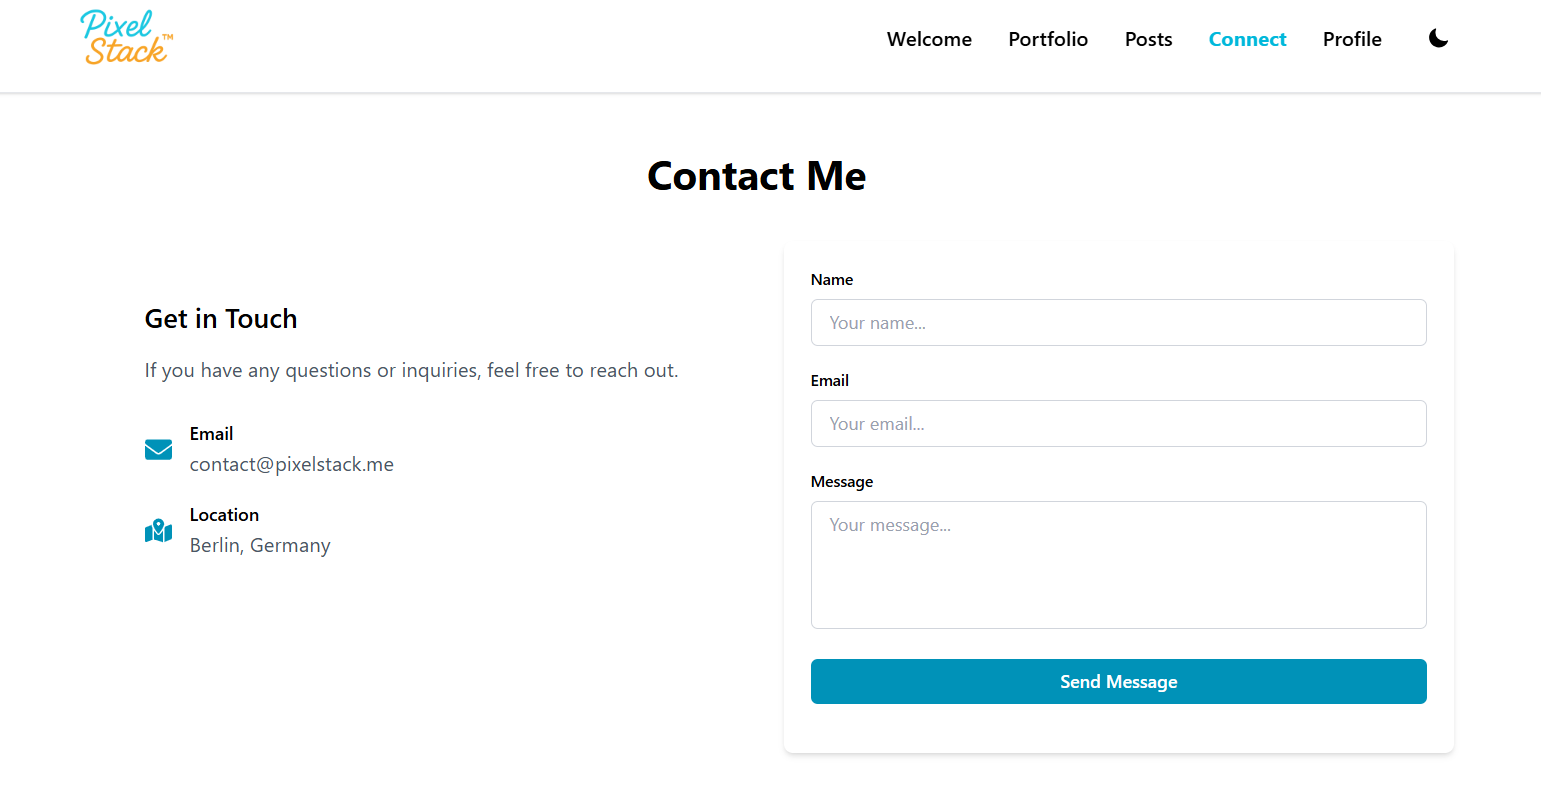
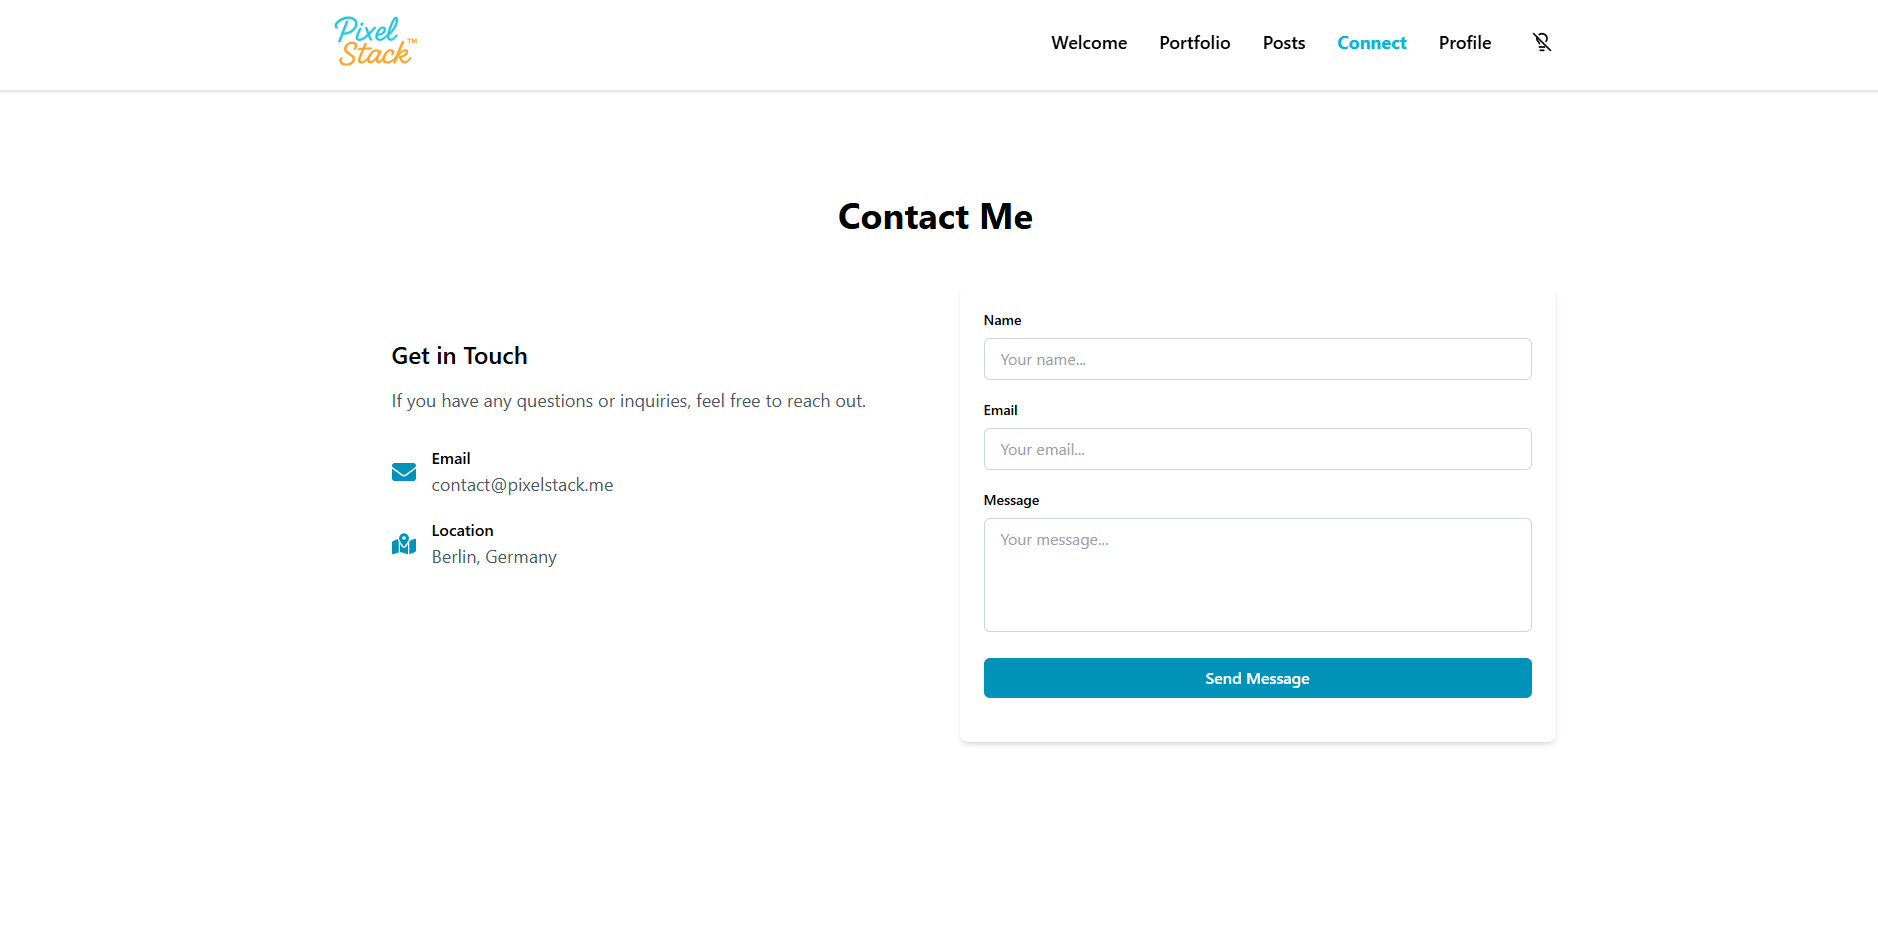
feat(intro): add animated background grid on hover; update README.md

diff --git a/src/app/components/Home/Intro.tsx b/src/app/components/Home/Intro.tsx
@@ -3,39 +3,99 @@
 import Image from 'next/image'
 import Link from 'next/link'
 import { motion } from 'framer-motion'
-import { Sparkle, Zap } from 'lucide-react'
+import { Sparkle, Star, Zap } from 'lucide-react'
+import { useState } from 'react'
 
 const Intro = () => {
-  return (
-    <section className="relative overflow-hidden py-22 lg:py-10 xl:py-30 2xl:py-50">
-      {/* Background gradient + blurred glow effect */}
-      <div className="from-primary/20 before:bg-primary/40 pointer-events-none absolute inset-0 bg-gradient-to-b to-transparent before:absolute before:top-10 before:left-1/2 before:h-[900px] before:w-[900px] before:-translate-x-1/2 before:rounded-full before:opacity-20 before:blur-[120px] before:content-['']" />
+  const [mousePosition, setMousePosition] = useState({ x: 0, y: 0 })
+  const [isHovering, setIsHovering] = useState(false)
 
-      <div className="hidden dark:sm:block">
+  const handleMouseMove = (e: React.MouseEvent<HTMLElement>) => {
+    const rect = e.currentTarget.getBoundingClientRect()
+    setMousePosition({
+      x: e.clientX - rect.left,
+      y: e.clientY - rect.top,
+    })
+  }
+
+  return (
+    <section
+      className="relative min-h-screen overflow-hidden py-40"
+      onMouseEnter={() => setIsHovering(true)}
+      onMouseLeave={() => setIsHovering(false)}
+      onMouseMove={handleMouseMove}
+    >
+      {/* Grid – Background only */}
+      <div
+        className={`pointer-events-none absolute inset-0 z-0 transition-opacity duration-500 ${
+          isHovering ? 'opacity-100' : 'opacity-0'
+        }`}
+      >
+        {/* Main grid */}
+        <div
+          className="absolute inset-0"
+          style={{
+            backgroundImage: `
+              linear-gradient(to right, rgba(6, 182, 212, 0.15) 1px, transparent 1px),
+              linear-gradient(to bottom, rgba(6, 182, 212, 0.15) 1px, transparent 1px)
+            `,
+            backgroundSize: '40px 40px',
+          }}
+        />
+
+        {/* Mouse-following spotlight effect */}
+        <div
+          className="absolute inset-0"
+          style={{
+            background: `radial-gradient(circle at ${mousePosition.x}px ${mousePosition.y}px, rgba(6, 182, 212, 0.25) 0%, transparent 250px)`,
+          }}
+        />
+      </div>
+
+      {/* Additional fine dot grid for depth */}
+      <div
+        className={`pointer-events-none absolute inset-0 z-0 transition-opacity duration-700 ${
+          isHovering ? 'opacity-60' : 'opacity-0'
+        }`}
+        style={{
+          backgroundImage: `radial-gradient(circle at 2px 2px, rgba(6, 182, 212, 0.2) 1.5px, transparent 1.5px)`,
+          backgroundSize: '24px 24px',
+        }}
+      />
+
+      {/* Primary background gradient */}
+      <div className="from-primary/20 before:bg-primary/40 pointer-events-none absolute inset-0 z-0 bg-gradient-to-b to-transparent before:absolute before:top-10 before:left-1/2 before:h-[900px] before:w-[900px] before:-translate-x-1/2 before:rounded-full before:opacity-20 before:blur-[120px] before:content-['']" />
+
+      {/* Animated icons */}
+      <div className="hidden dark:xl:block">
         <motion.div
           initial={{ opacity: 0, y: 20, x: 120 }}
-          animate={{ opacity: 1, y: -100, x: 0 }}
-          transition={{ duration: 1.2 }}
+          animate={{ opacity: 0.5, y: -100, x: 0 }}
+          transition={{ duration: 1 }}
         >
-          <Sparkle className="dark:fill-primary/10 dark:stroke-primary/0 fill-primary/5 stroke-primary/0 absolute top-15 right-20 h-25 w-25 rotate-45 transform animate-pulse drop-shadow-[0_0_6px_rgba(255,255,200,0.6)] lg:right-100" />
-          {/* <Star className="dark:fill-primary/10 dark:stroke-primary/0 absolute top-32 right-52 h-15 w-15 rotate-90 transform animate-pulse fill-cyan-500 stroke-cyan-500 drop-shadow-[0_0_6px_rgba(255,255,200,0.6)]" />{' '}
-        <Star className="dark:fill-primary/10 dark:stroke-primary/0 absolute top-22.5 right-35 h-22 w-22 rotate-45 transform animate-pulse fill-cyan-500 stroke-cyan-500 drop-shadow-[0_0_6px_rgba(255,255,200,0.6)]" /> */}
+          <Sparkle className="dark:fill-primary/8 dark:stroke-primary/0 fill-primary/5 stroke-primary/0 absolute top-15 right-20 h-25 w-25 rotate-45 transform animate-pulse drop-shadow-[0_0_6px_rgba(255,255,200,0.6)] lg:right-100" />
         </motion.div>
-      </div>
 
-      <div className="hidden dark:sm:block">
         <motion.div
           initial={{ opacity: 0, y: -300, x: 120 }}
-          animate={{ opacity: 1, y: -100, x: 0 }}
+          animate={{ opacity: 0.5, y: -100, x: 0 }}
+          transition={{ duration: 1.5 }}
+        >
+          <Zap className="dark:fill-primary/8 dark:stroke-primary/0 fill-primary/5 stroke-primary/0 absolute top-40 left-20 h-36 w-36 -rotate-12 transform animate-pulse drop-shadow-[0_0_6px_rgba(255,200,150,0.6)] lg:left-90" />
+        </motion.div>
+
+        <motion.div
+          initial={{ opacity: 0, y: 20, x: -120 }}
+          animate={{ opacity: 0.5, y: -100, x: 0 }}
           transition={{ duration: 2 }}
         >
-          <Zap className="dark:fill-primary/10 dark:stroke-primary/0 fill-primary/5 stroke-primary/0 absolute top-40 left-20 h-36 w-36 -rotate-12 transform animate-pulse drop-shadow-[0_0_6px_rgba(255,200,150,0.6)] lg:left-90" />
+          <Star className="dark:fill-primary/7 dark:stroke-primary/0 absolute top-152 right-122 h-15 w-15 rotate-90 transform animate-pulse fill-cyan-500 stroke-cyan-500 drop-shadow-[0_0_6px_rgba(255,255,200,0.6)]" />
+          <Star className="dark:fill-primary/10 dark:stroke-primary/0 absolute top-152.5 right-105 h-22 w-22 rotate-45 transform animate-pulse fill-cyan-500 stroke-cyan-500 drop-shadow-[0_0_6px_rgba(255,255,200,0.6)]" />
         </motion.div>
       </div>
 
-      <div></div>
-
-      <div className="relative mx-auto max-w-4xl px-4 text-center">
+      {/* Content with a higher z-index (above the grid) */}
+      <div className="relative z-10 mx-auto max-w-4xl px-4 text-center">
         {/* Avatar with fade-in + scale animation */}
         <motion.div
           initial={{ opacity: 0, scale: 0.6 }}

diff --git a/README.md b/README.md
@@ -26,7 +26,7 @@ Check out the live demo of the project here:
 ## Preview / Screenshots
 
 <p align="center">
-<img src="public/preview/homepage.png" width="700" alt="Homepage preview" />
+<img src="public/preview/intro.png" width="700" alt="Homepage preview" />
 <br />
 <em>Homepage with animated hero section</em>
 </p>
@@ -50,7 +50,7 @@ Check out the live demo of the project here:
 </p>
 
 <p align="center">
-<img src="public/preview/darkmode.png" width="700" alt="Dark mode preview" />
+<img src="public/preview/intro-darkmode.png" width="700" alt="Dark mode preview" />
 <br />
 <em>Dark mode theme using custom ThemeContext</em>
 </p>